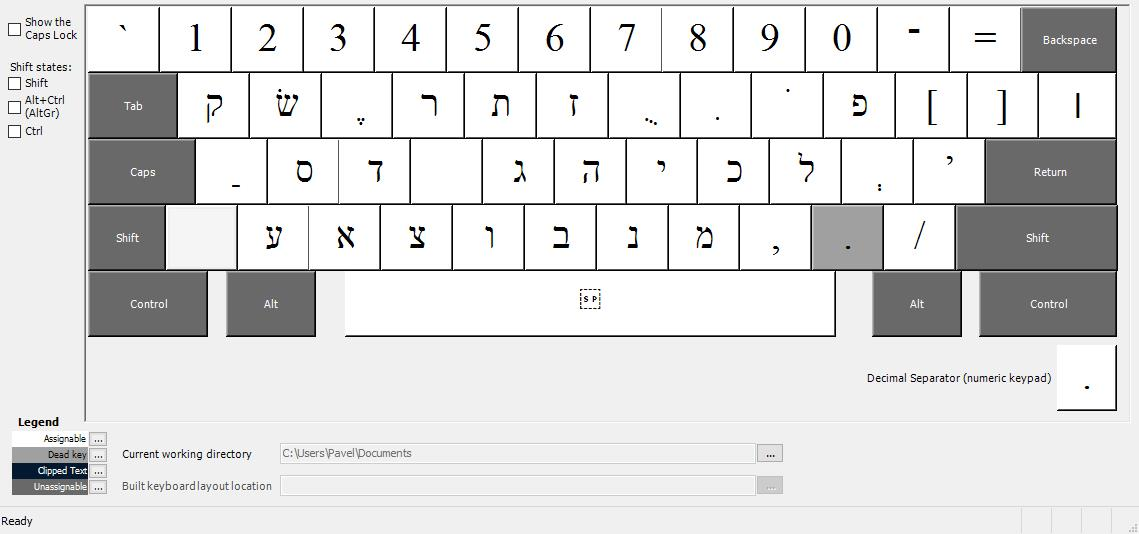
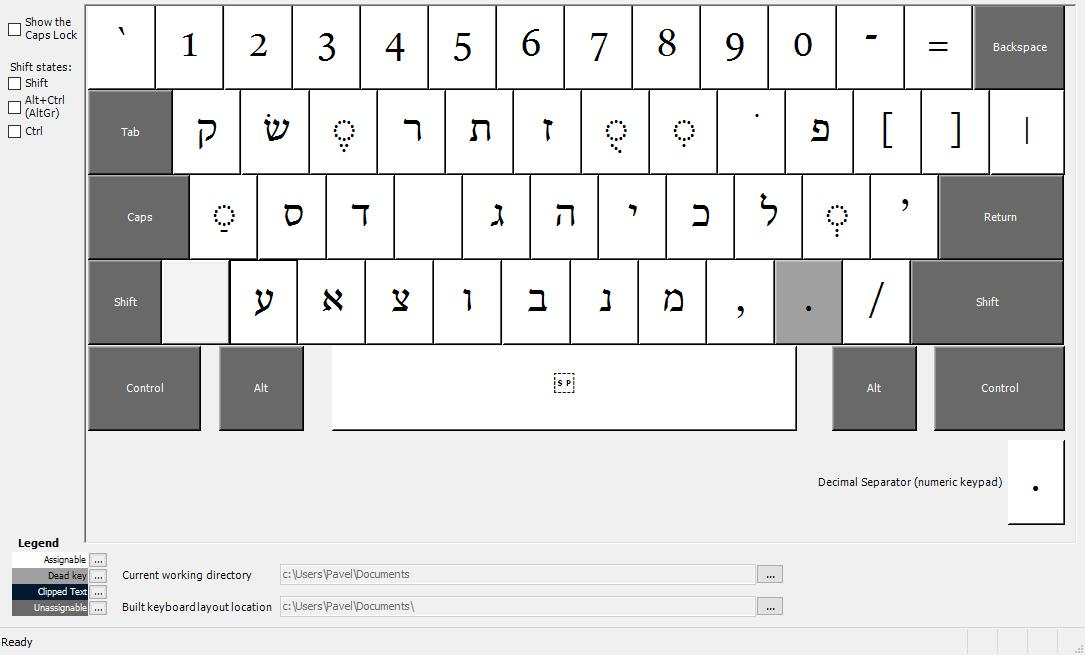
alternative ayin and inverted nun

diff --git a/README.md b/README.md
@@ -15,10 +15,12 @@ The purpose of this project is to develop Windows keyboard which maps Hebrew let
     - y (QWERTZ) for ayin
     - w/W for sin/shin
 - specialities
-    - v for waw as "w" is  pronounced close to "v" in some languages
+    - v for waw as "w" is pronounced close to "v" in some languages
     - T for tet (tav is used more frequently)
     - H for chet
+    - Shift+y (QWERTZ) for alternative ayin
     - AltGr (Ctrl+Alt)+s for sin *without* dot
+    - AltGr (Ctrl+Alt)+n for inverted nun
     - f is not used
 - the final forms are written with Shift
 - the wide forms are written with AltGr (Ctrl+Alt) including final mem
@@ -37,9 +39,9 @@ The purpose of this project is to develop Windows keyboard which maps Hebrew let
 |k|כ chaf/kaf|ך final|wide ﬤ|
 |l|ל lamed||wide ﬥ|
 |m|מ mem|ם final|wide ﬦ final|
-|n|נ nun|ן final||
+|n|נ nun|ן final|׆ inverted|
 |s|ס samech|ש sin/shin (without dot)||
-|y*|ע (ayin)|||
+|y*|ע ayin|ﬠ alternative||
 |p|פ fe/pe|ף final||
 |c|צ tsade|ץ final||
 |q|ק qof|||
@@ -141,12 +143,12 @@ Differences are marked with (*).
 | l | ל lamed|  | ﬥ wide lamed|  |
 | ; |  sheva| ״ gershayim (punctuation) *05f4*| ; semicolon dead key| ׃ sof pasuq *05c3*|
 | ' | ’ right single quotation *2019*| ” right double quotation *201d*| ̣ &nbsp;punctum *0323*| אׄ upper dot *05c4*|
-| y | ע ayin|  | # number sign|  |
+| y | ע ayin| ﬠ alternative ayin| # number sign|  |
 | x | א aleph|  | ﬡ wide aleph|  |
 | c | צ tsade| ץ final tsade| & ampersand |  |
 | v | ו  waw|  | @ at sign| (\*) left-to-right *200e*|
-| b | ב  vet/bet|  |  | (\*) right-to-left *200f*|
-| n | נ nun| ן final nun| \* asterisk|  (\*) zero width non-joiner *200c*|
+| b | ב  vet/bet|  | (\*) \* asterisk| (\*) right-to-left *200f*|
+| n | נ nun| ן final nun| ׆ inverted nun|  (\*) zero width non-joiner *200c*|
 | m | מ mem| ם final mem| ﬦ wide final mem| zero width joiner *200d*|
 | , | , | < | « guillemets left| ◌̇ &nbsp;masora dot above *0307*|
 | . | ּ &nbsp;dagesh/mappiq dead key| > | » guillemets right| ◌̈ &nbsp;thousands *0308*|
